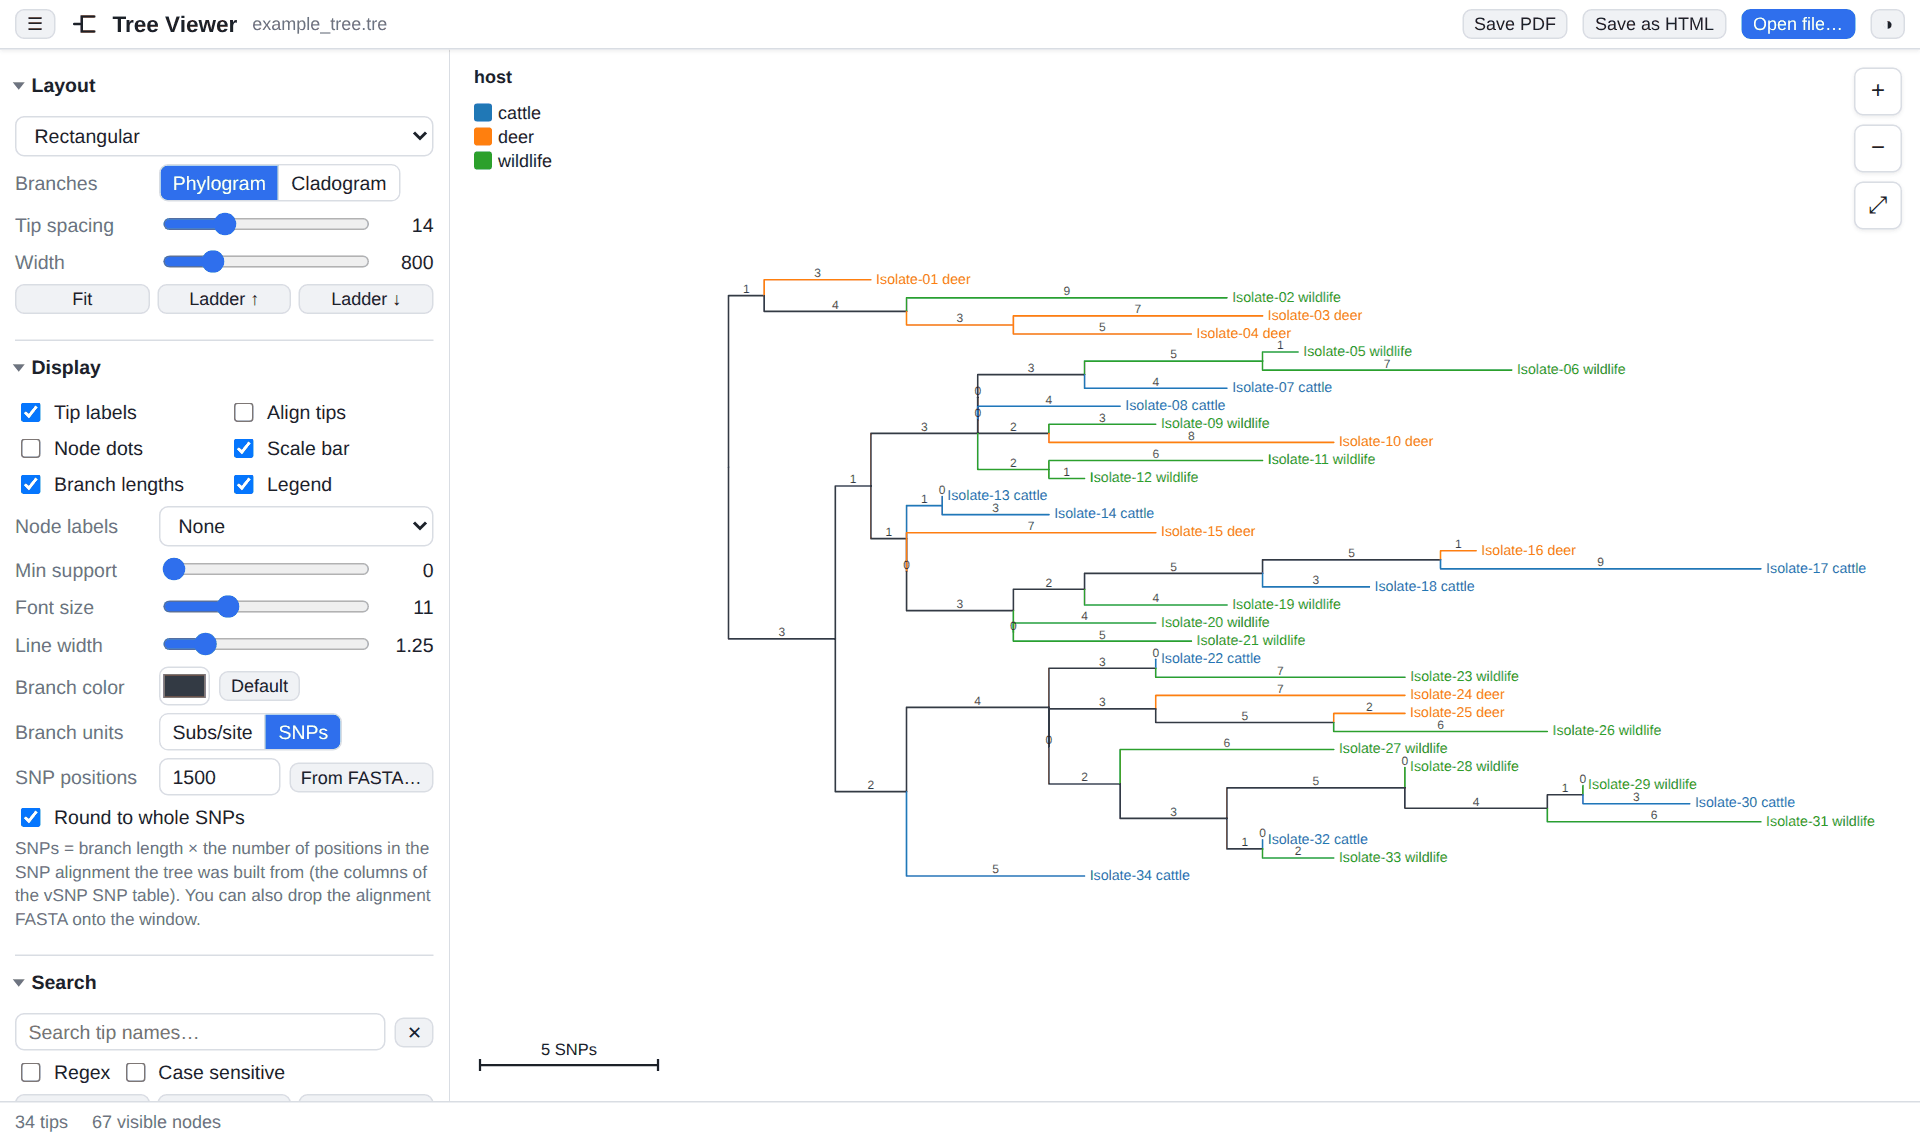
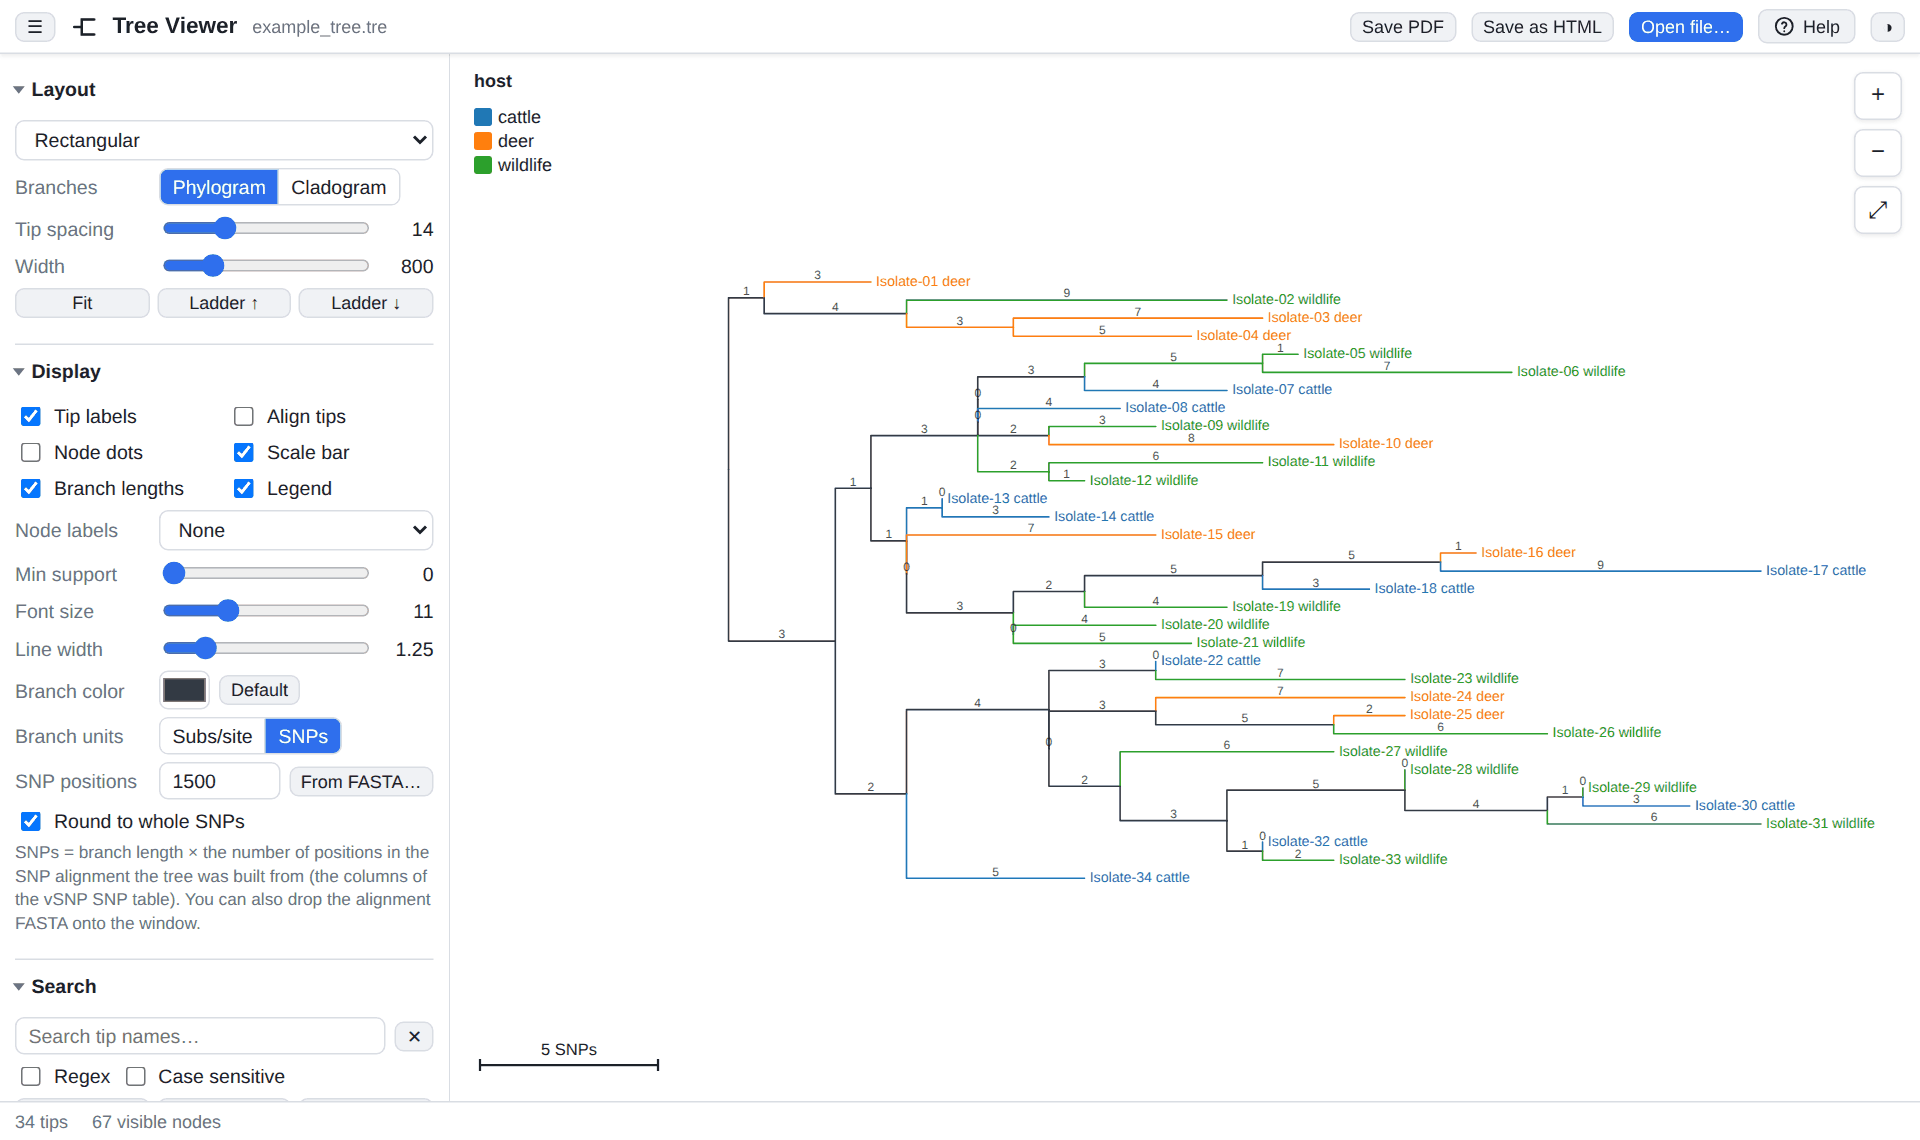
address provided

diff --git a/TreeViewer.html b/TreeViewer.html
@@ -43,6 +43,12 @@ label{display:flex;align-items:center;gap:6px}
 #topbar .brand{font-weight:700;font-size:15px;display:flex;align-items:center;gap:8px}
 #topbar .brand svg{width:20px;height:20px}
 #topbar .spacer{flex:1}
+.topLink{display:inline-flex;align-items:center;gap:5px;padding:3px 9px;border:1px solid var(--border);border-radius:6px;background:var(--panel2);color:var(--text);text-decoration:none;font-size:12px}
+.topLink:hover{border-color:var(--accent)}
+.topLink svg{width:15px;height:15px}
+#aboutRow{padding:14px 0 4px;line-height:1.45}
+#aboutRow a,#empty a{color:var(--accent)}
+#empty a{pointer-events:auto}
 #fileName{color:var(--muted);font-size:12px;max-width:40vw;overflow:hidden;text-overflow:ellipsis;white-space:nowrap}
 #main{flex:1;display:flex;min-height:0;position:relative}
 #sidebar{width:300px;min-width:300px;background:var(--panel);border-right:1px solid var(--border);overflow-y:auto;overflow-x:hidden;padding:6px 10px 30px}
@@ -108,6 +114,9 @@ html.tv-static #tvSnapshot{display:block;padding:16px}
   #toggleSidebar,#saveHtmlBtn,#savePdfBtn,#openBtn,#topbar .brand{display:none}
   #fileName{flex:1;max-width:none;font-size:14px;color:var(--text);font-weight:600}
   #themeBtn{min-width:36px;min-height:36px}
+  .topLink{min-height:36px;min-width:36px;justify-content:center;padding:0 8px}
+  .topLink span{display:none}
+  .topLink svg{width:20px;height:20px}
   #statusbar,#floatTools{display:none}
   /* side panel becomes a bottom sheet */
   #sidebar{position:fixed;left:0;right:0;bottom:0;top:auto;width:auto;min-width:0;max-height:80vh;max-height:80dvh;z-index:30;border-right:0;border-top:1px solid var(--border);border-radius:16px 16px 0 0;box-shadow:0 -8px 28px rgba(0,0,0,.28);padding:0 16px calc(28px + env(safe-area-inset-bottom));transform:translateY(0);visibility:visible;transition:transform .24s ease,visibility .24s}
@@ -169,6 +178,7 @@ html.tv-static #tvSnapshot{display:block;padding:16px}
   <button id="saveHtmlBtn" class="small" title="Save this tree and view as a single HTML file you can email or send in chat">Save as HTML</button>
   <button id="openBtn" class="primary small">Open file…</button>
   <input type="file" id="fileInput" accept=".nwk,.newick,.tre,.tree,.treefile,.nex,.nexus,.nxs,.txt,.contree,.bestTree,.support,.phy,*" style="display:none">
+  <a id="helpLink" class="topLink" href="https://github.com/USDA-VS/phylogenetic-tree-html-viewer#readme" target="_blank" rel="noopener noreferrer" title="Help, updates and source code on GitHub"><svg viewBox="0 0 24 24" aria-hidden="true" fill="none" stroke="currentColor" stroke-width="2" stroke-linecap="round" stroke-linejoin="round"><circle cx="12" cy="12" r="9"/><path d="M9.6 9.3a2.5 2.5 0 0 1 4.8 1c0 1.7-2.4 2.2-2.4 3.7M12 17.2v.1"/></svg><span>Help</span></a>
   <button id="themeBtn" class="small" title="Toggle light/dark">&#9681;</button>
 </div>
 <div id="main">
@@ -317,7 +327,7 @@ html.tv-static #tvSnapshot{display:block;padding:16px}
     <div class="hint">One self-contained file with this tree, its colors, metadata and settings. Recipients open it in any browser, desktop or phone. No install or internet needed.</div>
     <div class="row" style="margin-top:8px"><button id="shareLinkBtn" class="small" style="flex:1">Copy share link</button></div>
     <div class="row" id="viewerUrlRow"><span class="muted" style="width:90px">Viewer address</span><input type="text" id="viewerUrl" placeholder="https://…/TreeViewer.html" autocomplete="off" autocapitalize="off" spellcheck="false"></div>
-    <div class="hint">A share link opens the full interactive viewer on any phone, including iPhone, where email and chat previews can't run it. Links need this viewer hosted at a web address, set once above. The tree travels inside the link itself; the web server never receives it. With an address set, saved HTML files also get an "Open interactive tree" button in their preview.</div>
+    <div class="hint">A share link opens the full interactive viewer on any phone, including iPhone, where email and chat previews can't run it. Links open the viewer's public page; change the address only if you host your own copy. The tree travels inside the link itself; the web server never receives it. Saved HTML files also get an "Open interactive tree" button in their preview.</div>
   </div>
 </details>
 
@@ -327,6 +337,7 @@ html.tv-static #tvSnapshot{display:block;padding:16px}
     <kbd>F</kbd> fit · <kbd>R</kbd> rotate node · <kbd>C</kbd> collapse · <kbd>Z</kbd> undo · <kbd>Esc</kbd> clear selection · <kbd>/</kbd> focus search · scroll = zoom · drag = pan · <kbd>Shift</kbd>+drag = box select
   </div>
 </details>
+<div id="aboutRow" class="hint">Help, updates and source code: <a href="https://github.com/USDA-VS/phylogenetic-tree-html-viewer" target="_blank" rel="noopener noreferrer">github.com/USDA-VS/phylogenetic-tree-html-viewer</a></div>
 
 </div>
 <div id="sheetBackdrop"></div>
@@ -341,6 +352,7 @@ html.tv-static #tvSnapshot{display:block;padding:16px}
     <div class="big">Drop a Newick or NEXUS tree here</div>
     <div>or use <b>Open file…</b> above, or paste a tree in the side panel</div>
     <button id="exampleBtn2" class="primary">Load example tree</button>
+    <div>New here? <a href="https://github.com/USDA-VS/phylogenetic-tree-html-viewer#readme" target="_blank" rel="noopener noreferrer">Read the short guide</a></div>
   </div>
   <div id="dropOverlay">Drop tree file</div>
   <div id="tooltip"></div>
@@ -1325,7 +1337,7 @@ function restorePayload(P){
    Share links: the tree is packed into the link after '#', so it
    opens in any phone browser without the server ever receiving it
    ============================================================ */
-const VIEWER_URL_DEFAULT=''; // optional: the web address where this viewer is hosted, e.g. 'https://you.github.io/tree/TreeViewer.html'
+const VIEWER_URL_DEFAULT='https://usda-vs.github.io/phylogenetic-tree-html-viewer/'; // public page of this viewer; share links open here (the tree stays in the link, never sent to the server)
 function isHosted(){ return /^https?:$/.test(location.protocol); }
 function viewerBaseURL(){ if(isHosted()) return location.href.split('#')[0]; let u=''; try{ u=localStorage.getItem('tv-viewer-url')||''; }catch(e){} u=(u||VIEWER_URL_DEFAULT||S.viewerURLFromFile||'').split('#')[0].trim(); return /^https?:\/\/[^\s"'<>]+$/i.test(u) ? u : ''; }
 function b64u(bytes){ let s=''; for(let i=0;i<bytes.length;i+=0x8000) s+=String.fromCharCode.apply(null, bytes.subarray(i,i+0x8000)); return btoa(s).replace(/\+/g,'-').replace(/\//g,'_').replace(/=+$/,''); }

diff --git a/README.md b/README.md
@@ -1,15 +1,16 @@
 # Phylogenetic Tree HTML Viewer
 
-View, explore and share phylogenetic trees in your web browser. Nothing to install, and your data never leaves your computer.
+**A tree viewer built for SNP trees, such as those from vSNP, that you can share as a link, a file or a PDF.**
 
-**Open the viewer: https://YOUR-NAME.github.io/phylogenetic-tree-html-viewer/**
+### [Open the viewer](https://usda-vs.github.io/phylogenetic-tree-html-viewer/)
+
+- **Branch lengths as SNP counts.** Switch the scale from substitutions/site to SNPs, using the positions in your SNP alignment.
+- **Share a tree as a link.** Colors, rerooting and all travel inside the link, and it opens fully interactive on computers and phones, iPhone included. No uploads, no accounts.
+- **Or as a single file.** Save a self-contained HTML file or a PDF to attach to an email. It works offline.
+- **Private by design.** Your trees are read by your own browser, and the page is technically blocked from sending data anywhere.
+- **Nothing to install.** Runs in any modern browser, on desktop or phone.
 
 ![Tree Viewer showing a tree colored by host, with branch lengths in SNPs](viewer-desktop.png)
-
-Built for everyday work with SNP trees, such as those from vSNP: reroot, color clades, show branch lengths as SNP counts, and send the result to colleagues as a file, a PDF or a link.
-
-> [!IMPORTANT]
-> **Your data stays with you.** Trees and tables you open are read by your own browser. They are not uploaded anywhere, and the page is technically blocked from sending data over the internet.
 
 ---
 
@@ -115,13 +116,13 @@ Yes. Download `TreeViewer.html` from this repository and open it in your browser
 
 ### Setting up the page
 
-1. Create a public repository named `phylogenetic-tree-html-viewer`.
+1. The repository is [`USDA-VS/phylogenetic-tree-html-viewer`](https://github.com/USDA-VS/phylogenetic-tree-html-viewer).
 2. Upload `TreeViewer.html`, `README.md`, `viewer-desktop.png` and `viewer-phone.png` (**Add file → Upload files**).
 3. Add the two safety files with **Add file → Create new file**, pasting in their contents: name one `.gitignore`, and the other `.github/workflows/publish.yml` (typing the slashes creates the folders).
 4. Go to **Settings → Pages → Build and deployment**, and set **Source** to **GitHub Actions**.
-5. Your page appears at `https://YOUR-NAME.github.io/phylogenetic-tree-html-viewer/` within a minute or two. Replace `YOUR-NAME` at the top of this README with your GitHub username.
+5. The page is published at https://usda-vs.github.io/phylogenetic-tree-html-viewer/ a minute or two after each change.
 
-**Optional:** in `TreeViewer.html`, set `VIEWER_URL_DEFAULT` to your page's address. HTML files saved from downloaded copies of the viewer will then also get the "Open interactive tree" button.
+`VIEWER_URL_DEFAULT` in `TreeViewer.html` holds this page's address, so share links and the "Open interactive tree" button work from any copy of the viewer, including downloaded ones. If the page ever moves, update that line.
 
 ### Built-in safeguards against publishing data
 
